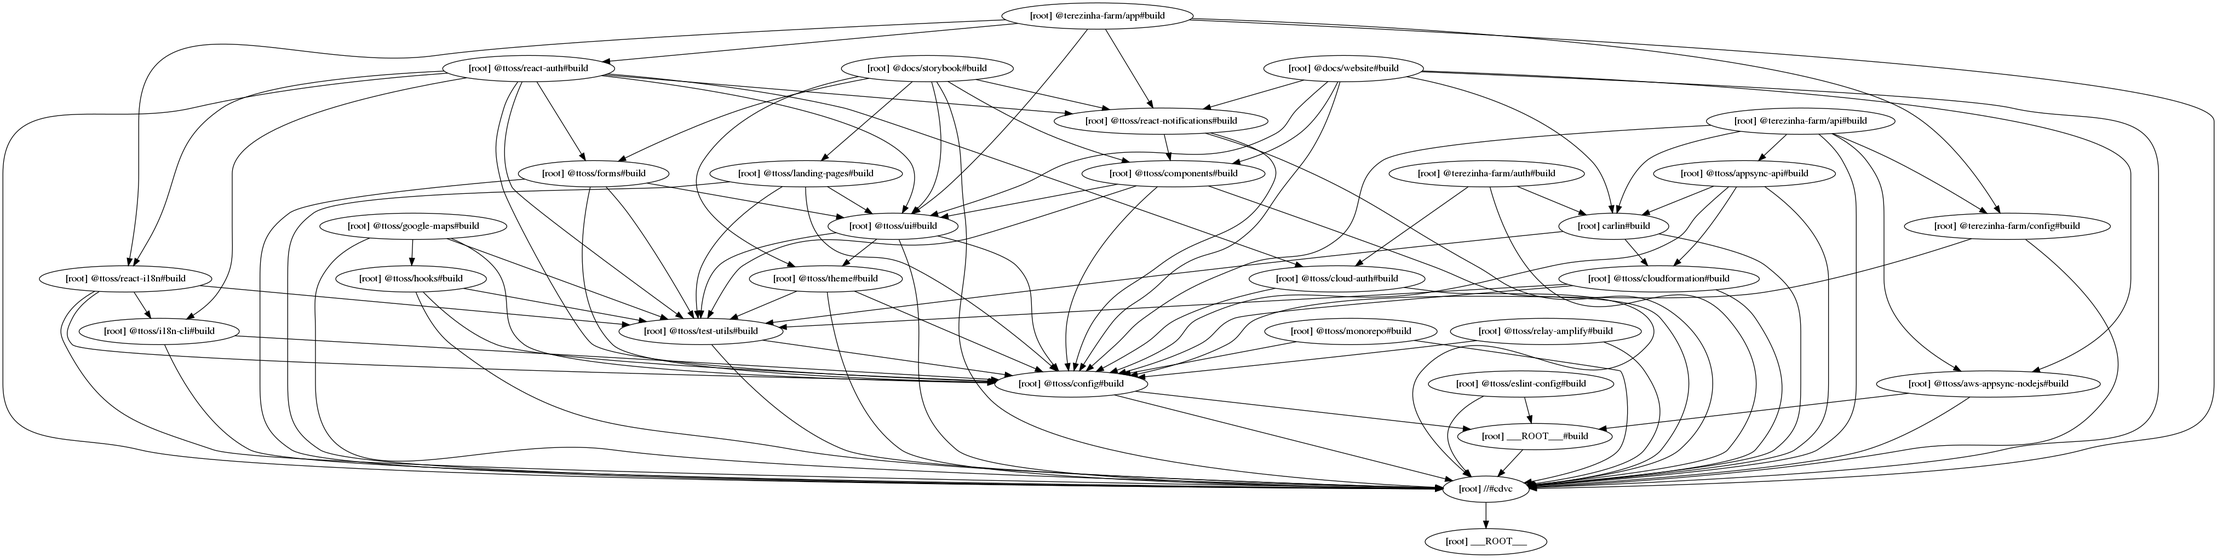
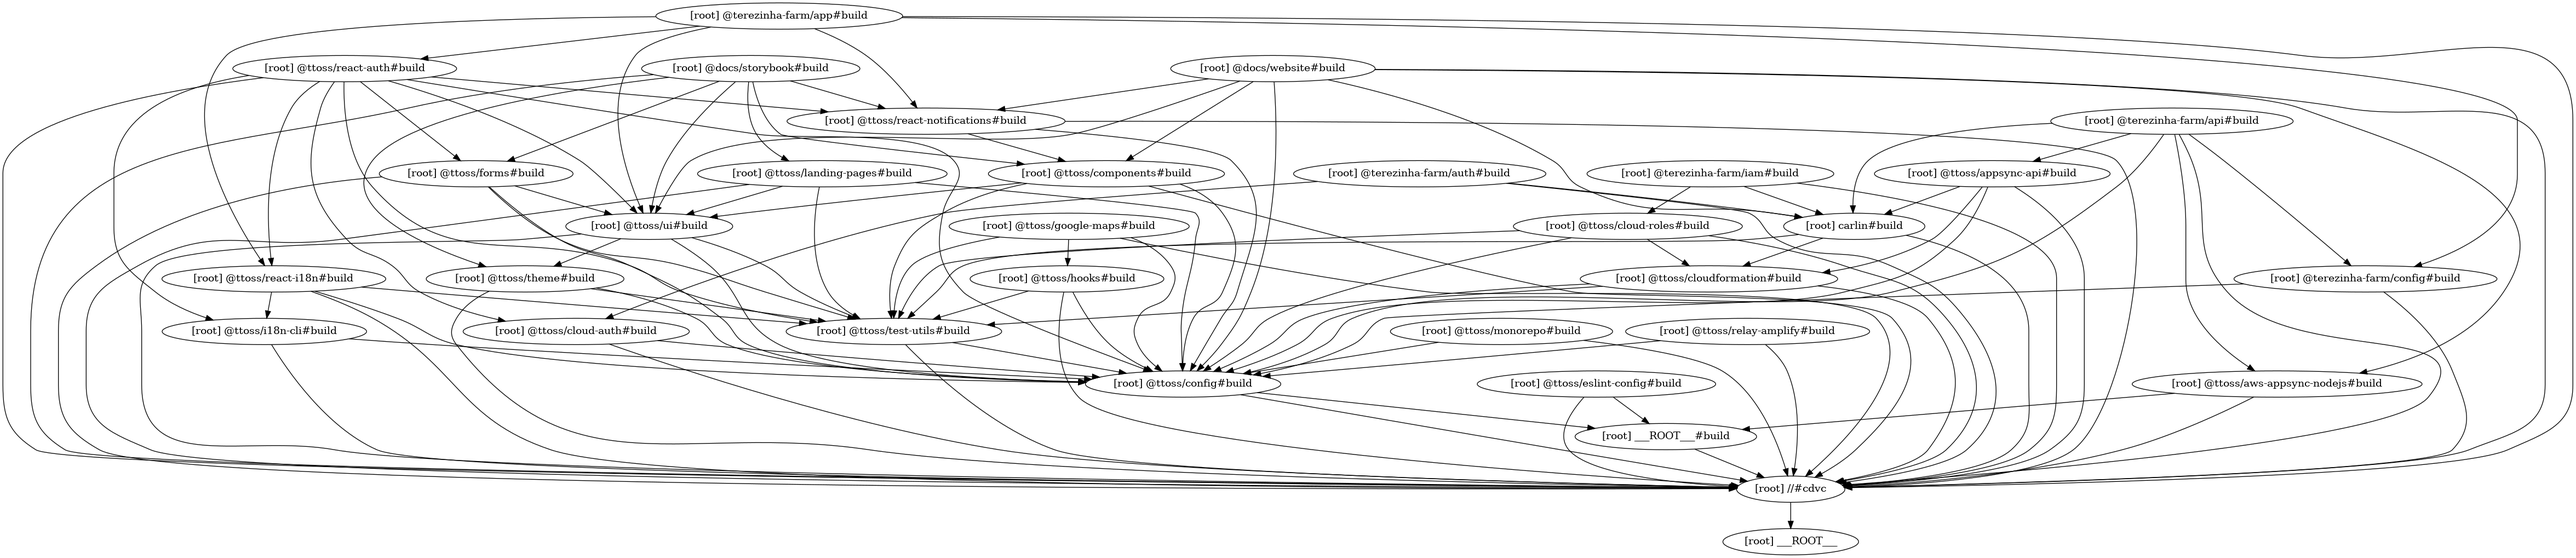
feat: add cloud-roles

diff --git a/terezinha-farm/iam/src/cloudformation.ts b/terezinha-farm/iam/src/cloudformation.ts
@@ -1,0 +1,63 @@
+import { createRolesTemplate } from '@ttoss/cloud-roles';
+
+const template = createRolesTemplate({
+  resources: {
+    AppSyncLambdaFunctionIAMRole: {
+      Type: 'AWS::IAM::Role',
+      Properties: {
+        AssumeRolePolicyDocument: {
+          Version: '2012-10-17',
+          Statement: [
+            {
+              Effect: 'Allow',
+              Action: 'sts:AssumeRole',
+              Principal: {
+                Service: 'lambda.amazonaws.com',
+              },
+            },
+          ],
+        },
+        ManagedPolicyArns: [
+          'arn:aws:iam::aws:policy/service-role/AWSLambdaBasicExecutionRole',
+        ],
+      },
+    },
+    AppSyncLambdaDataSourceIAMRole: {
+      Type: 'AWS::IAM::Role',
+      Properties: {
+        AssumeRolePolicyDocument: {
+          Version: '2012-10-17',
+          Statement: [
+            {
+              Effect: 'Allow',
+              Action: 'sts:AssumeRole',
+              Principal: {
+                Service: 'appsync.amazonaws.com',
+              },
+            },
+          ],
+        },
+        ManagedPolicyArns: [
+          'arn:aws:iam::aws:policy/service-role/AWSAppSyncPushToCloudWatchLogs',
+        ],
+        Policies: [
+          {
+            PolicyName: 'AppSyncGraphQLApiIAMRolePolicyName',
+            PolicyDocument: {
+              Version: '2012-10-17',
+              Statement: [
+                {
+                  Effect: 'Allow',
+                  Action: ['lambda:InvokeFunction'],
+                  Resource: '*',
+                },
+              ],
+            },
+          },
+        ],
+      },
+    },
+  },
+});
+
+export default template;

diff --git a/packages/cloudformation/src/CloudFormationTemplate.ts b/packages/cloudformation/src/CloudFormationTemplate.ts
@@ -1,0 +1,72 @@
+export interface Parameter {
+  AllowedValues?: string[];
+  Default?: string | number;
+  Description?: string;
+  Type: string;
+  NoEcho?: boolean;
+}
+
+export type Parameters = { [key: string]: Parameter };
+
+export interface Resource {
+  Type: string;
+  DeletionPolicy?: 'Delete' | 'Retain';
+  Description?: string;
+  DependsOn?: string[] | string;
+  Condition?: string;
+  Properties: any;
+}
+
+export interface IAMRoleResource extends Resource {
+  Type: 'AWS::IAM::Role';
+  Properties: {
+    AssumeRolePolicyDocument: {
+      Version: '2012-10-17';
+      Statement: {
+        Effect: 'Allow' | 'Deny';
+        Action: string;
+        Principal: any;
+      }[];
+    };
+    ManagedPolicyArns?: string[];
+    Path?: string;
+    Policies?: {
+      PolicyName: string;
+      PolicyDocument: {
+        Version: '2012-10-17';
+        Statement: {
+          Effect: 'Allow' | 'Deny';
+          Action: string | string[];
+          Resource:
+            | string
+            | string[]
+            | { [key: string]: string }
+            | { [key: string]: string }[];
+        }[];
+      };
+    }[];
+  };
+}
+
+export type Resources = { [key: string]: IAMRoleResource | Resource };
+
+export type Output = {
+  Description?: string;
+  Value: string | any;
+  Export?: {
+    Name: string | any;
+  };
+};
+
+export type Outputs = { [key: string]: Output };
+
+export type CloudFormationTemplate = {
+  AWSTemplateFormatVersion: '2010-09-09';
+  Description?: string;
+  Transform?: 'AWS::Serverless-2016-10-31';
+  Mappings?: any;
+  Conditions?: any;
+  Parameters?: Parameters;
+  Resources: Resources;
+  Outputs?: Outputs;
+};

diff --git a/packages/cloud-roles/src/createRolesTemplate.ts b/packages/cloud-roles/src/createRolesTemplate.ts
@@ -1,0 +1,38 @@
+import {
+  CloudFormationTemplate,
+  IAMRoleResource,
+  Outputs,
+} from '@ttoss/cloudformation';
+
+export const IAM_PATH = '/custom-iam/';
+
+export const createRolesTemplate = ({
+  path = IAM_PATH,
+  resources,
+}: {
+  path?: string;
+  resources: { [key: string]: IAMRoleResource };
+}): CloudFormationTemplate => {
+  Object.values(resources).forEach((resource) => {
+    if (!resource.Properties.Path) {
+      resource.Properties.Path = path;
+    }
+  });
+
+  const outputs: Outputs = Object.keys(resources).reduce((acc, key) => {
+    acc[key] = {
+      Description: `Arn of the ${key} role.`,
+      Value: { 'Fn::GetAtt': [key, 'Arn'] },
+      Export: { Name: { 'Fn::Join': [':', [{ Ref: 'AWS::StackName' }, key]] } },
+    };
+
+    return acc;
+  }, {} as Outputs);
+
+  return {
+    AWSTemplateFormatVersion: '2010-09-09',
+    Description: 'Roles template. Created by @ttoss/cloud-roles.',
+    Resources: resources,
+    Outputs: outputs,
+  };
+};

diff --git a/packages/cloudformation/src/cloudFormationYamlTemplate.ts b/packages/cloudformation/src/cloudFormationYamlTemplate.ts
@@ -1,39 +1,5 @@
+import { CloudFormationTemplate } from './CloudFormationTemplate';
 import yaml from 'js-yaml';
-
-interface Parameter {
-  AllowedValues?: string[];
-  Default?: string | number;
-  Description?: string;
-  Type: string;
-  NoEcho?: boolean;
-}
-
-export interface Resource {
-  Type: string;
-  DeletionPolicy?: 'Delete' | 'Retain';
-  Description?: string;
-  DependsOn?: string[] | string;
-  Condition?: string;
-  Properties: any;
-}
-
-export type Output = {
-  Description?: string;
-  Value: string | any;
-  Export?: {
-    Name: string | any;
-  };
-};
-
-export interface CloudFormationTemplate {
-  AWSTemplateFormatVersion: '2010-09-09';
-  Transform?: 'AWS::Serverless-2016-10-31';
-  Mappings?: any;
-  Conditions?: any;
-  Parameters?: { [key: string]: Parameter };
-  Resources: { [key: string]: Resource };
-  Outputs?: { [key: string]: Output };
-}
 
 export interface TagAndType {
   tag: string;

diff --git a/packages/cloudformation/src/readCloudFormationYamlTemplate.ts b/packages/cloudformation/src/readCloudFormationYamlTemplate.ts
@@ -1,10 +1,10 @@
 import * as fs from 'fs';
 import * as path from 'path';
+import { CloudFormationTemplate } from './CloudFormationTemplate';
 import {
-  CloudFormationTemplate,
   TagAndType,
   loadCloudFormationTemplate,
-} from './cloudFormationTemplate';
+} from './cloudFormationYamlTemplate';
 
 const getTypes = (): TagAndType[] => {
   return [

diff --git a/packages/cloudformation/src/findAndReadCloudFormationTemplate.ts b/packages/cloudformation/src/findAndReadCloudFormationTemplate.ts
@@ -1,6 +1,6 @@
 import * as fs from 'fs';
 import * as path from 'path';
-import { CloudFormationTemplate } from './cloudFormationTemplate';
+import { CloudFormationTemplate } from './CloudFormationTemplate';
 import { readCloudFormationYamlTemplate } from './readCloudFormationYamlTemplate';
 import { readObjectFile } from './readObjectFile';
 

diff --git a/packages/cloudformation/src/index.ts b/packages/cloudformation/src/index.ts
@@ -1,4 +1,5 @@
 export { findAndReadCloudFormationTemplate } from './findAndReadCloudFormationTemplate';
+export * from './CloudFormationTemplate';
 
 /**
  * Unstable API.

diff --git a/packages/cloud-roles/jest.config.ts b/packages/cloud-roles/jest.config.ts
@@ -1,0 +1,5 @@
+import { jestConfig } from '@ttoss/config';
+
+const config = jestConfig({});
+
+export default config;

diff --git a/packages/cloud-roles/babel.config.js b/packages/cloud-roles/babel.config.js
@@ -1,0 +1,3 @@
+const { babelConfig } = require('@ttoss/config');
+
+module.exports = babelConfig();

diff --git a/packages/cloud-roles/tsup.config.ts b/packages/cloud-roles/tsup.config.ts
@@ -1,0 +1,3 @@
+import { tsupConfig } from '@ttoss/config';
+
+export const tsup = tsupConfig();

diff --git a/packages/cloud-roles/src/index.ts b/packages/cloud-roles/src/index.ts
@@ -1,0 +1,1 @@
+export { createRolesTemplate } from './createRolesTemplate';
